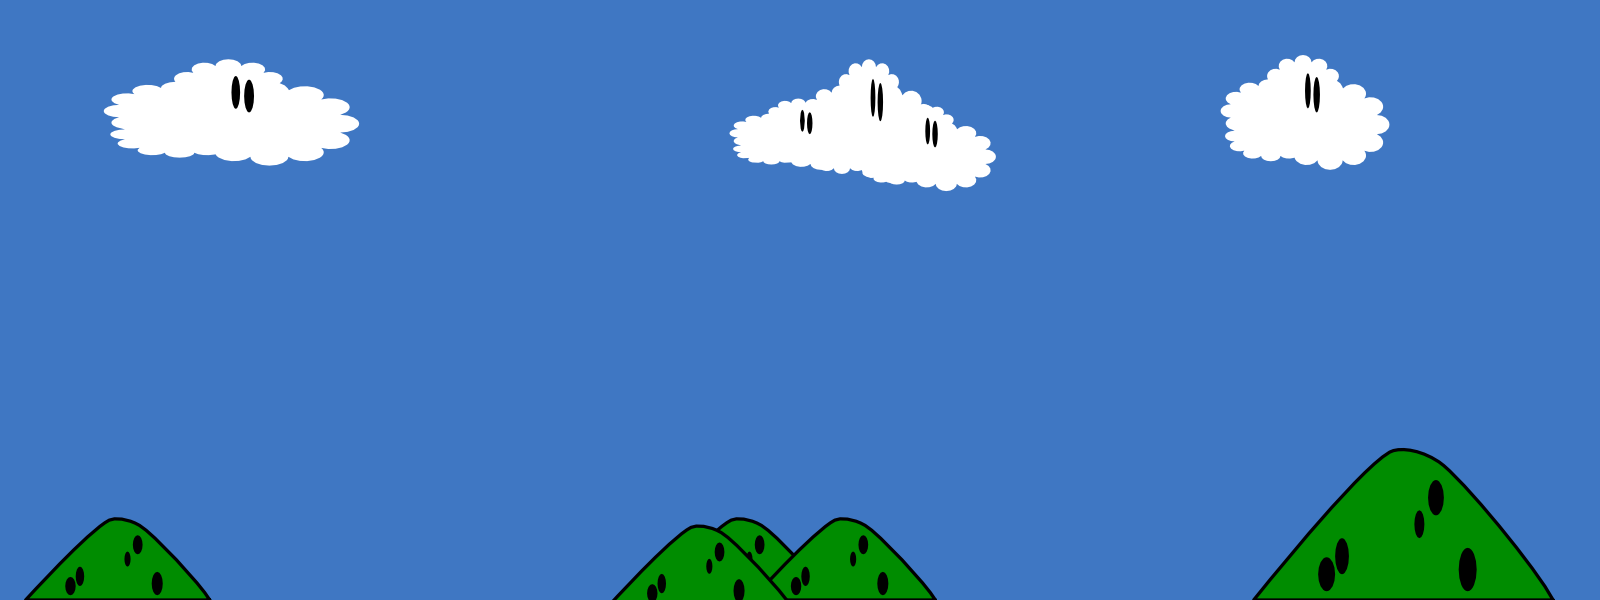
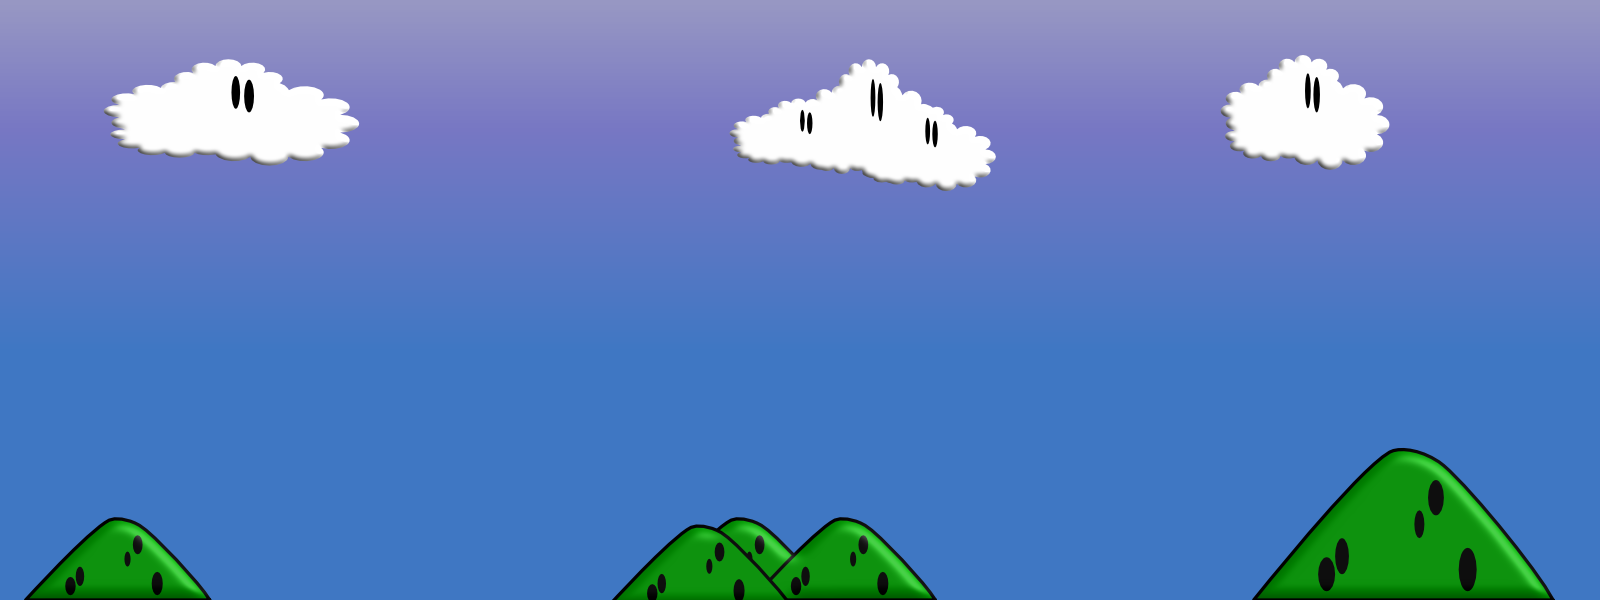
fixed background bug and finallized textures

diff --git a/src/gamewindow.c b/src/gamewindow.c
@@ -31,6 +31,6 @@ void doRender(SDL_Renderer *rend, int x, int y, int width, int height, SDL_Textu
   //a->y += a ->dy;
 //}
 void background_update(struct Background *self){
-  if (self->xPos <= (-2*SCREEN_WIDTH))
-    self->xPos = SCREEN_WIDTH;
+  if (self->xPos <= (-2)*SCREEN_WIDTH)
+    self->xPos = 3*SCREEN_WIDTH+self->xPos;
 }
